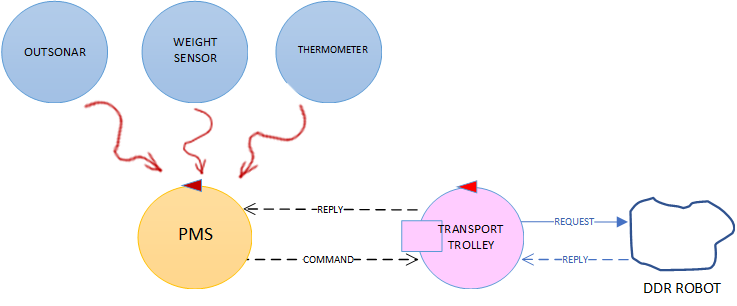
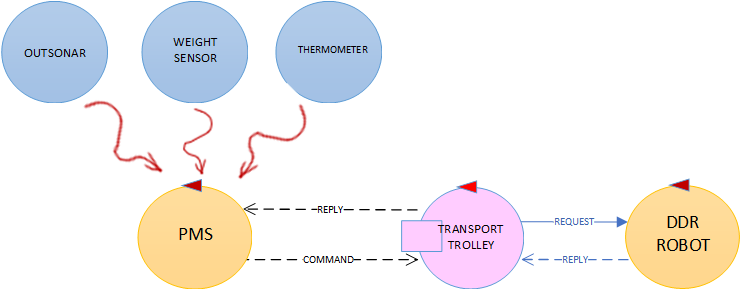
added DDR robot as an actor

diff --git a/Sprint1/userDocs/Sprint1.html b/Sprint1/userDocs/Sprint1.html
@@ -304,7 +304,7 @@ div.imagedesc{
   <div class="remark">
     <ul>
       <li>Interaction between sensors and the <ks>PMS</ks> is <b>events based</b>;</li>
-      <li>Interaction between the transport trolley and the <ks>PMS</ks> uses a request/response and a dispatch semantic.</li>
+      <li>Interaction between the transport trolley and the <ks>PMS</ks> uses a <b>dispatch semantic</b>.</li>
     </ul>
   </div>
 </div>
@@ -318,6 +318,18 @@ div.imagedesc{
   on different systems such as Raspberry Pis or Arduinos.
 </div>
 </div>
+The sprint 1 should be done in <b>one week</b>.
+<div id = "project">
+<h2>Project</h2>
+Starting from the <a>logical architecture</a> and from the <a href="#backlog">product backlog</a> we can now "zoom in" and design the entities pointed out in the analysis.
+The application will be designed following the hexagonal architecture as described in the first document <a>here</a>.
+<h3>PMS</h3>
+<h3>Transport trolley</h3>
+<h3>Outsonar</h3>
+<h3>Weightsensor</h3>
+<h3>Thermometer</h3>
+</div>
+
 <h4>Summary point</h4>
 <center><img src="IMG/SummaryPoint.png" alt="summary_point_sprint1" width="60%"></center>
 
